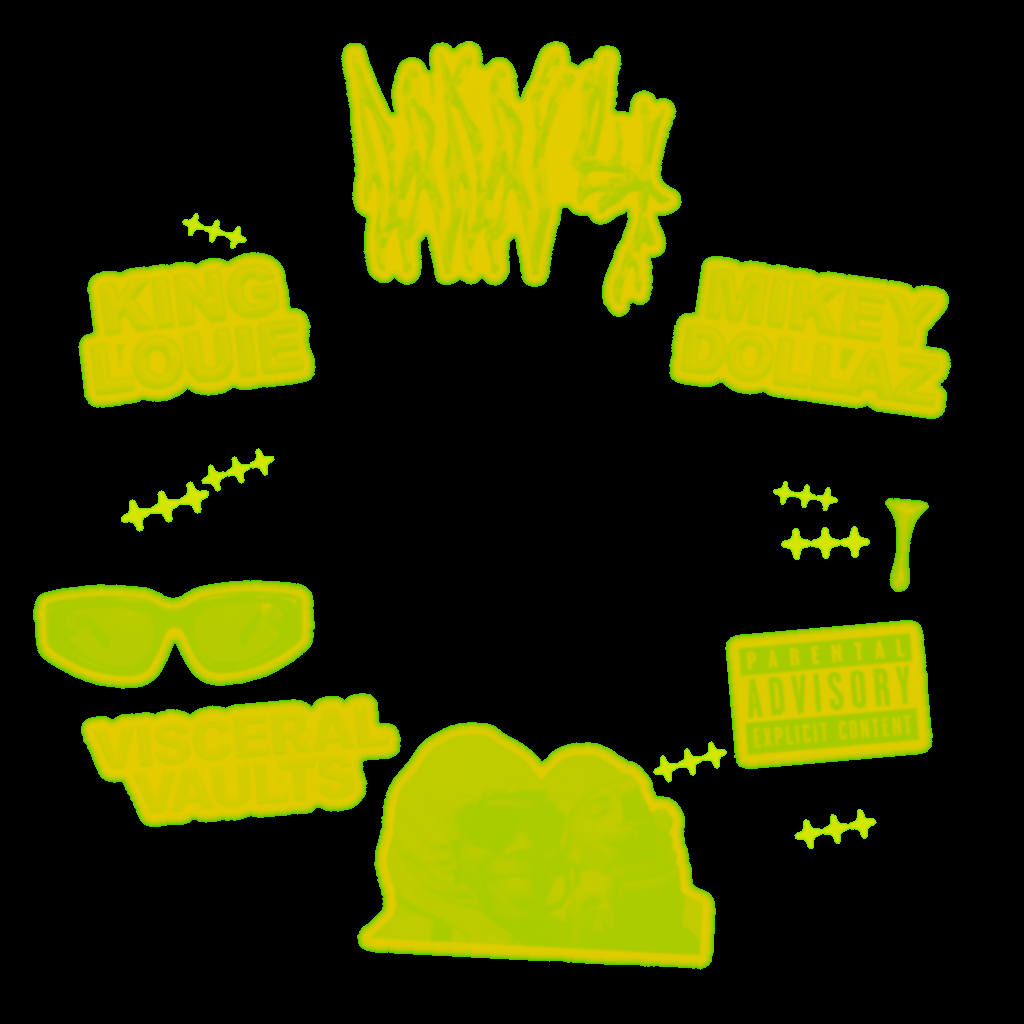
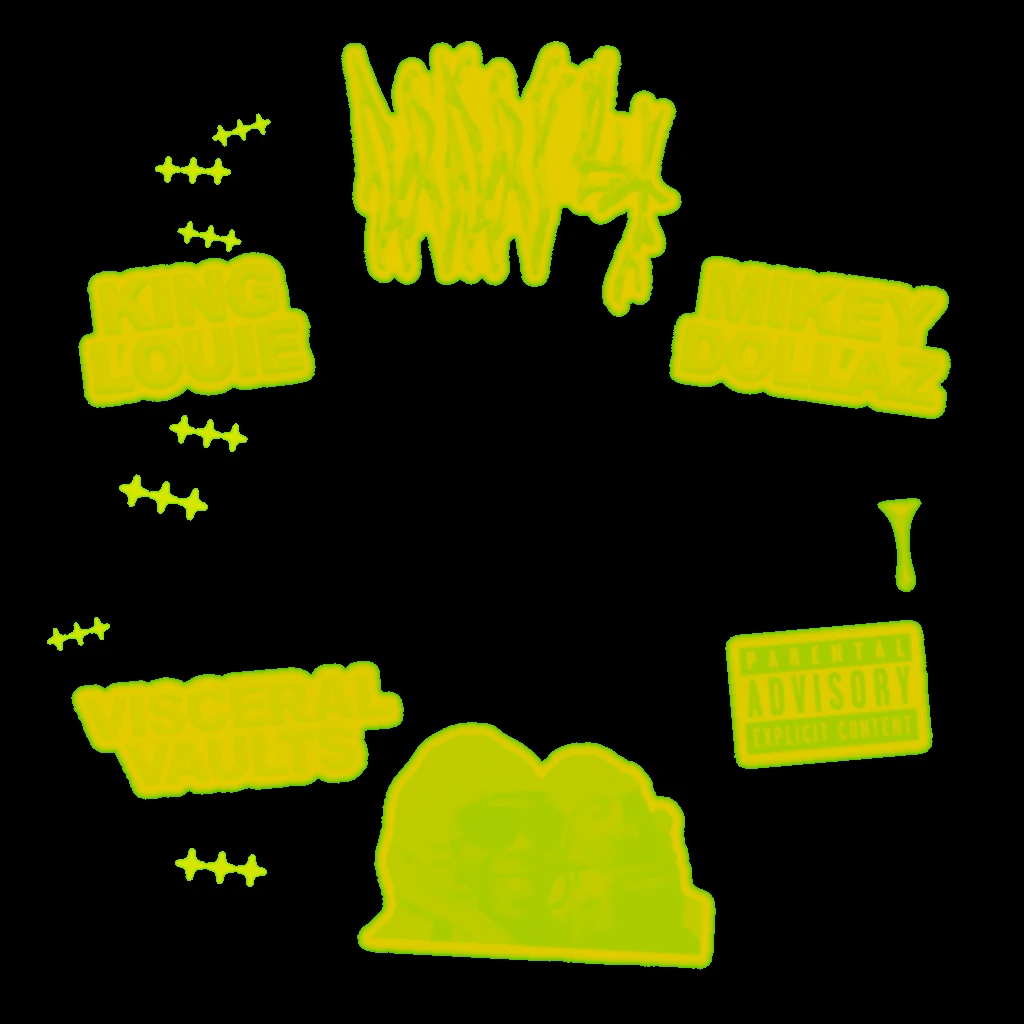
CD: Gistro's disc without the ballroom scorecard, its GISTRO set wide (180%, like the booklet's Impact); WW4's without the sunglasses

diff --git a/cd/cd.js b/cd/cd.js
@@ -656,7 +656,7 @@ const texture = (url, srgb) => {
 // when it first comes up, so the one on screen isn't kept waiting behind the rest; the others follow, one at a
 // time, once it's in.
 const BOOKLETS = { jashim: 'booklets/jashim.jpg' };
-const V = '?v=3';   // bump when a picture changes, so browsers don't keep the old one
+const V = '?v=4';   // bump when a picture changes, so browsers don't keep the old one
 const loaded = new Map();
 function releaseTextures(i) {
   if (!loaded.has(i)) {
